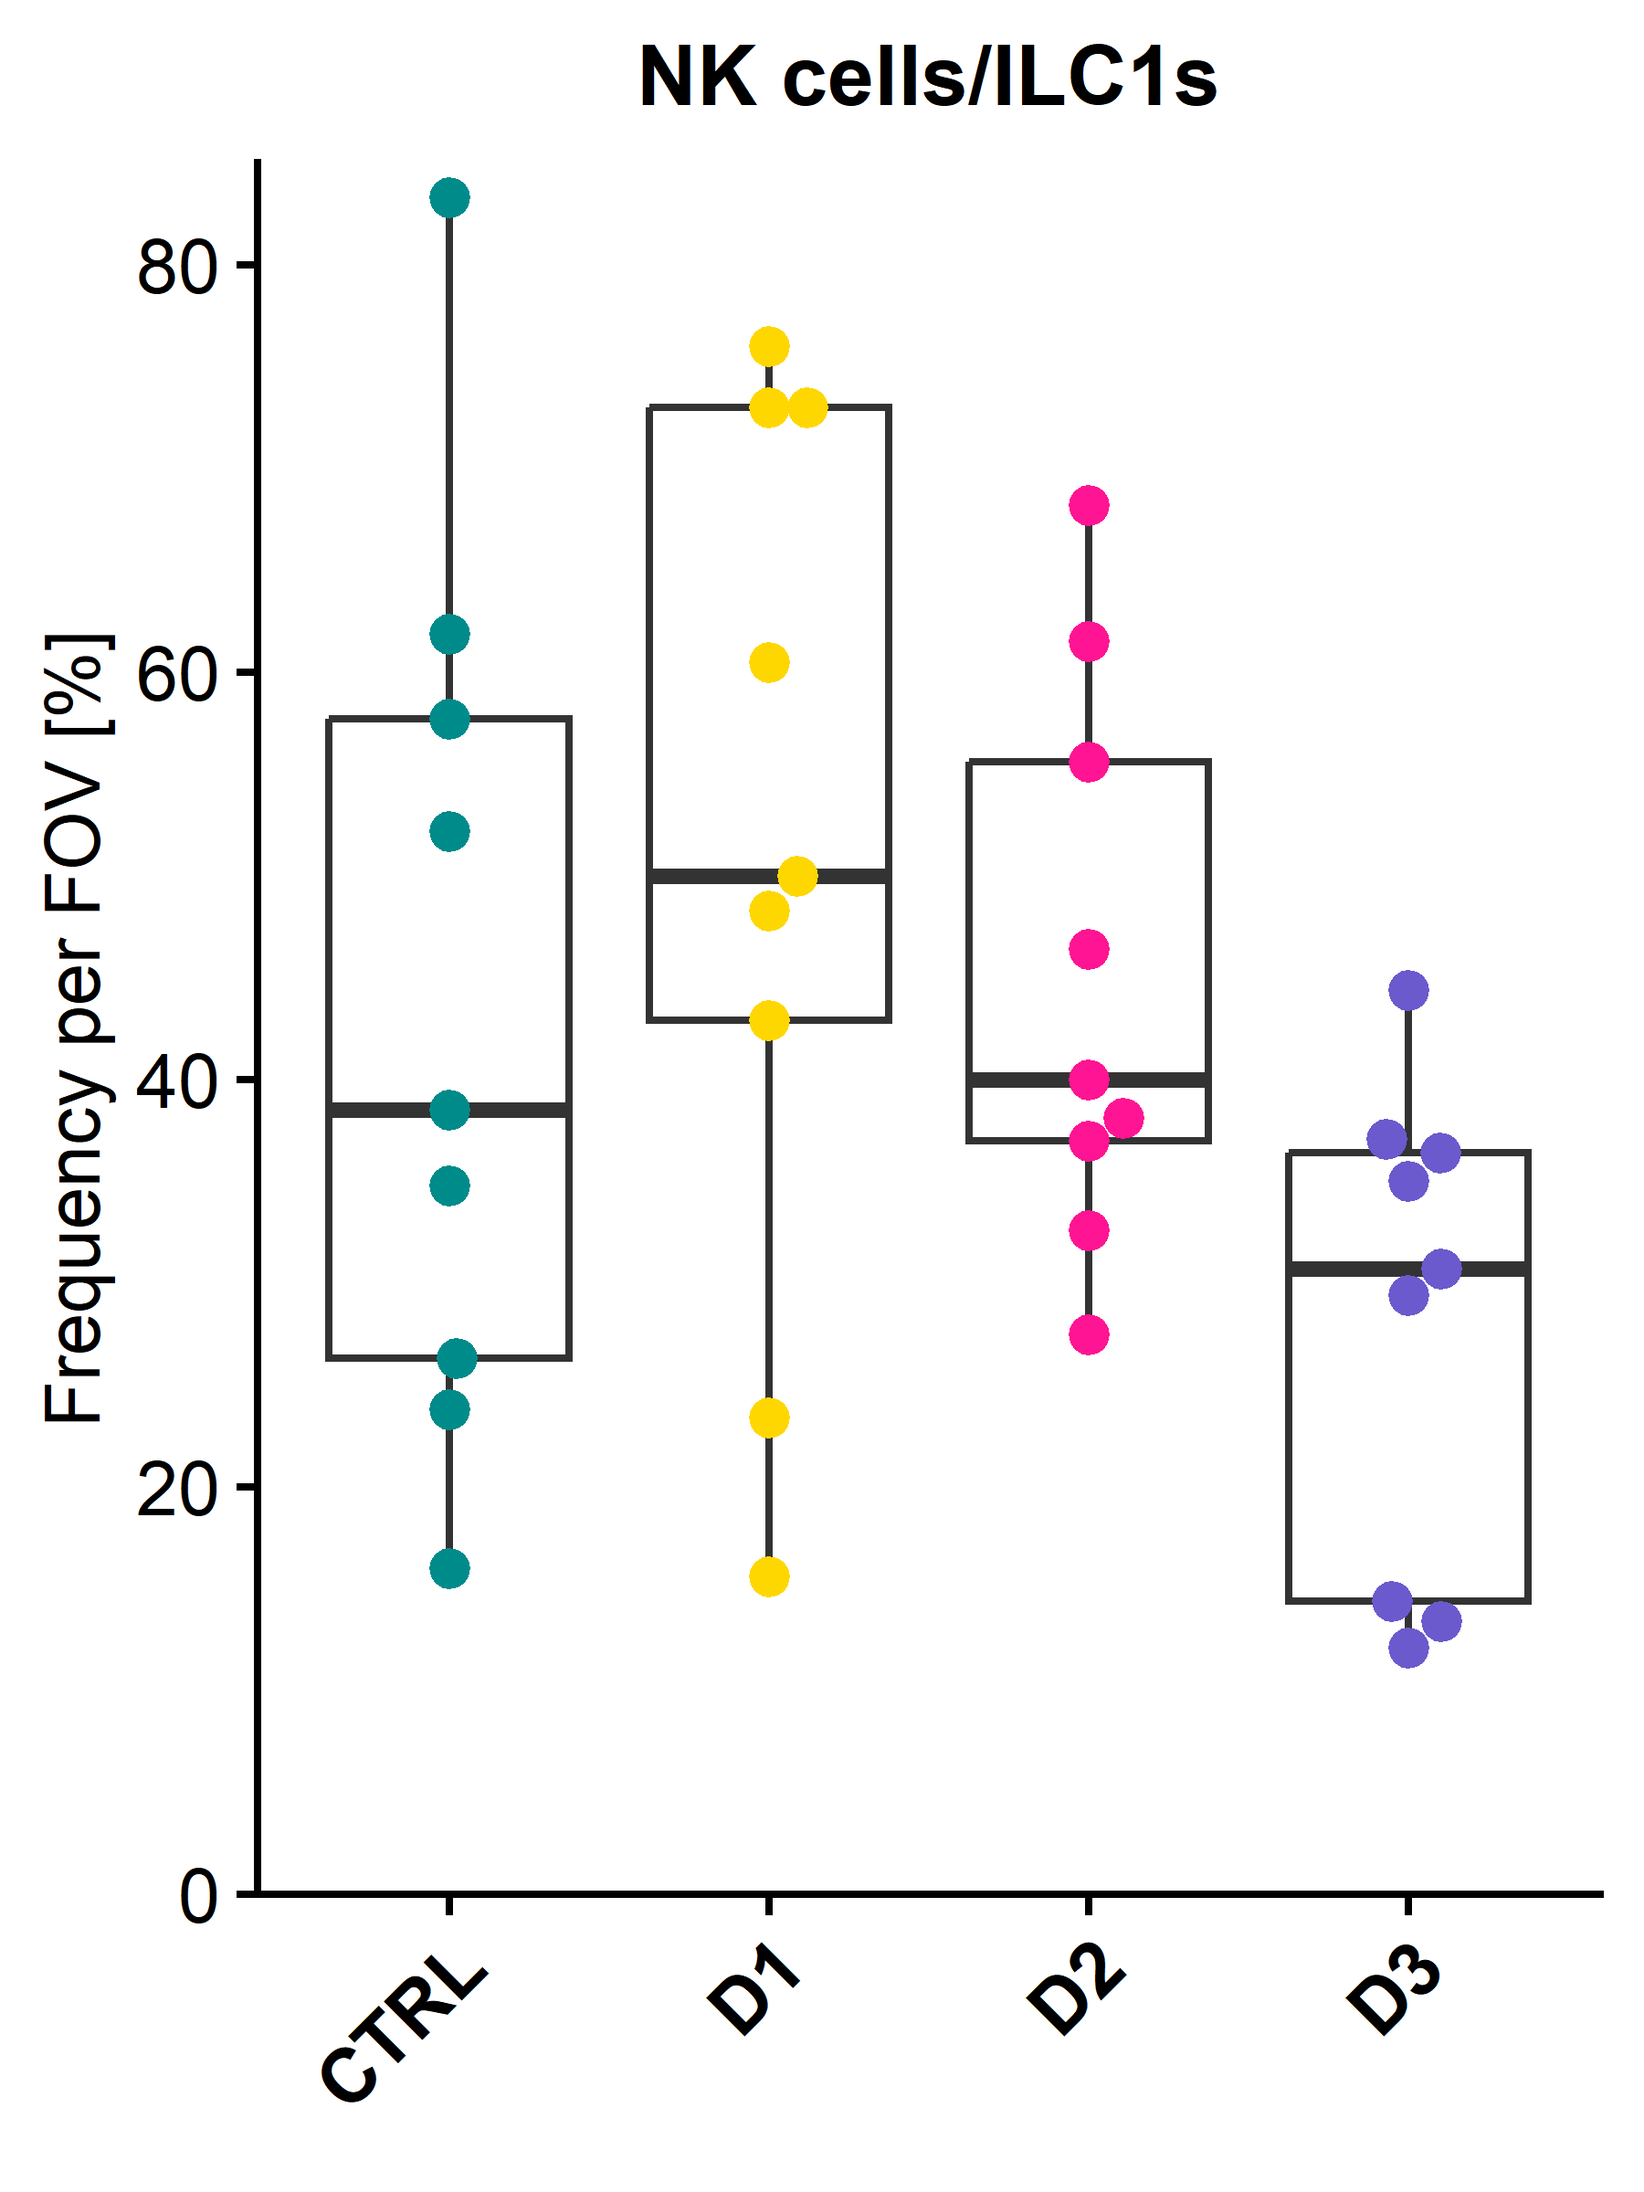
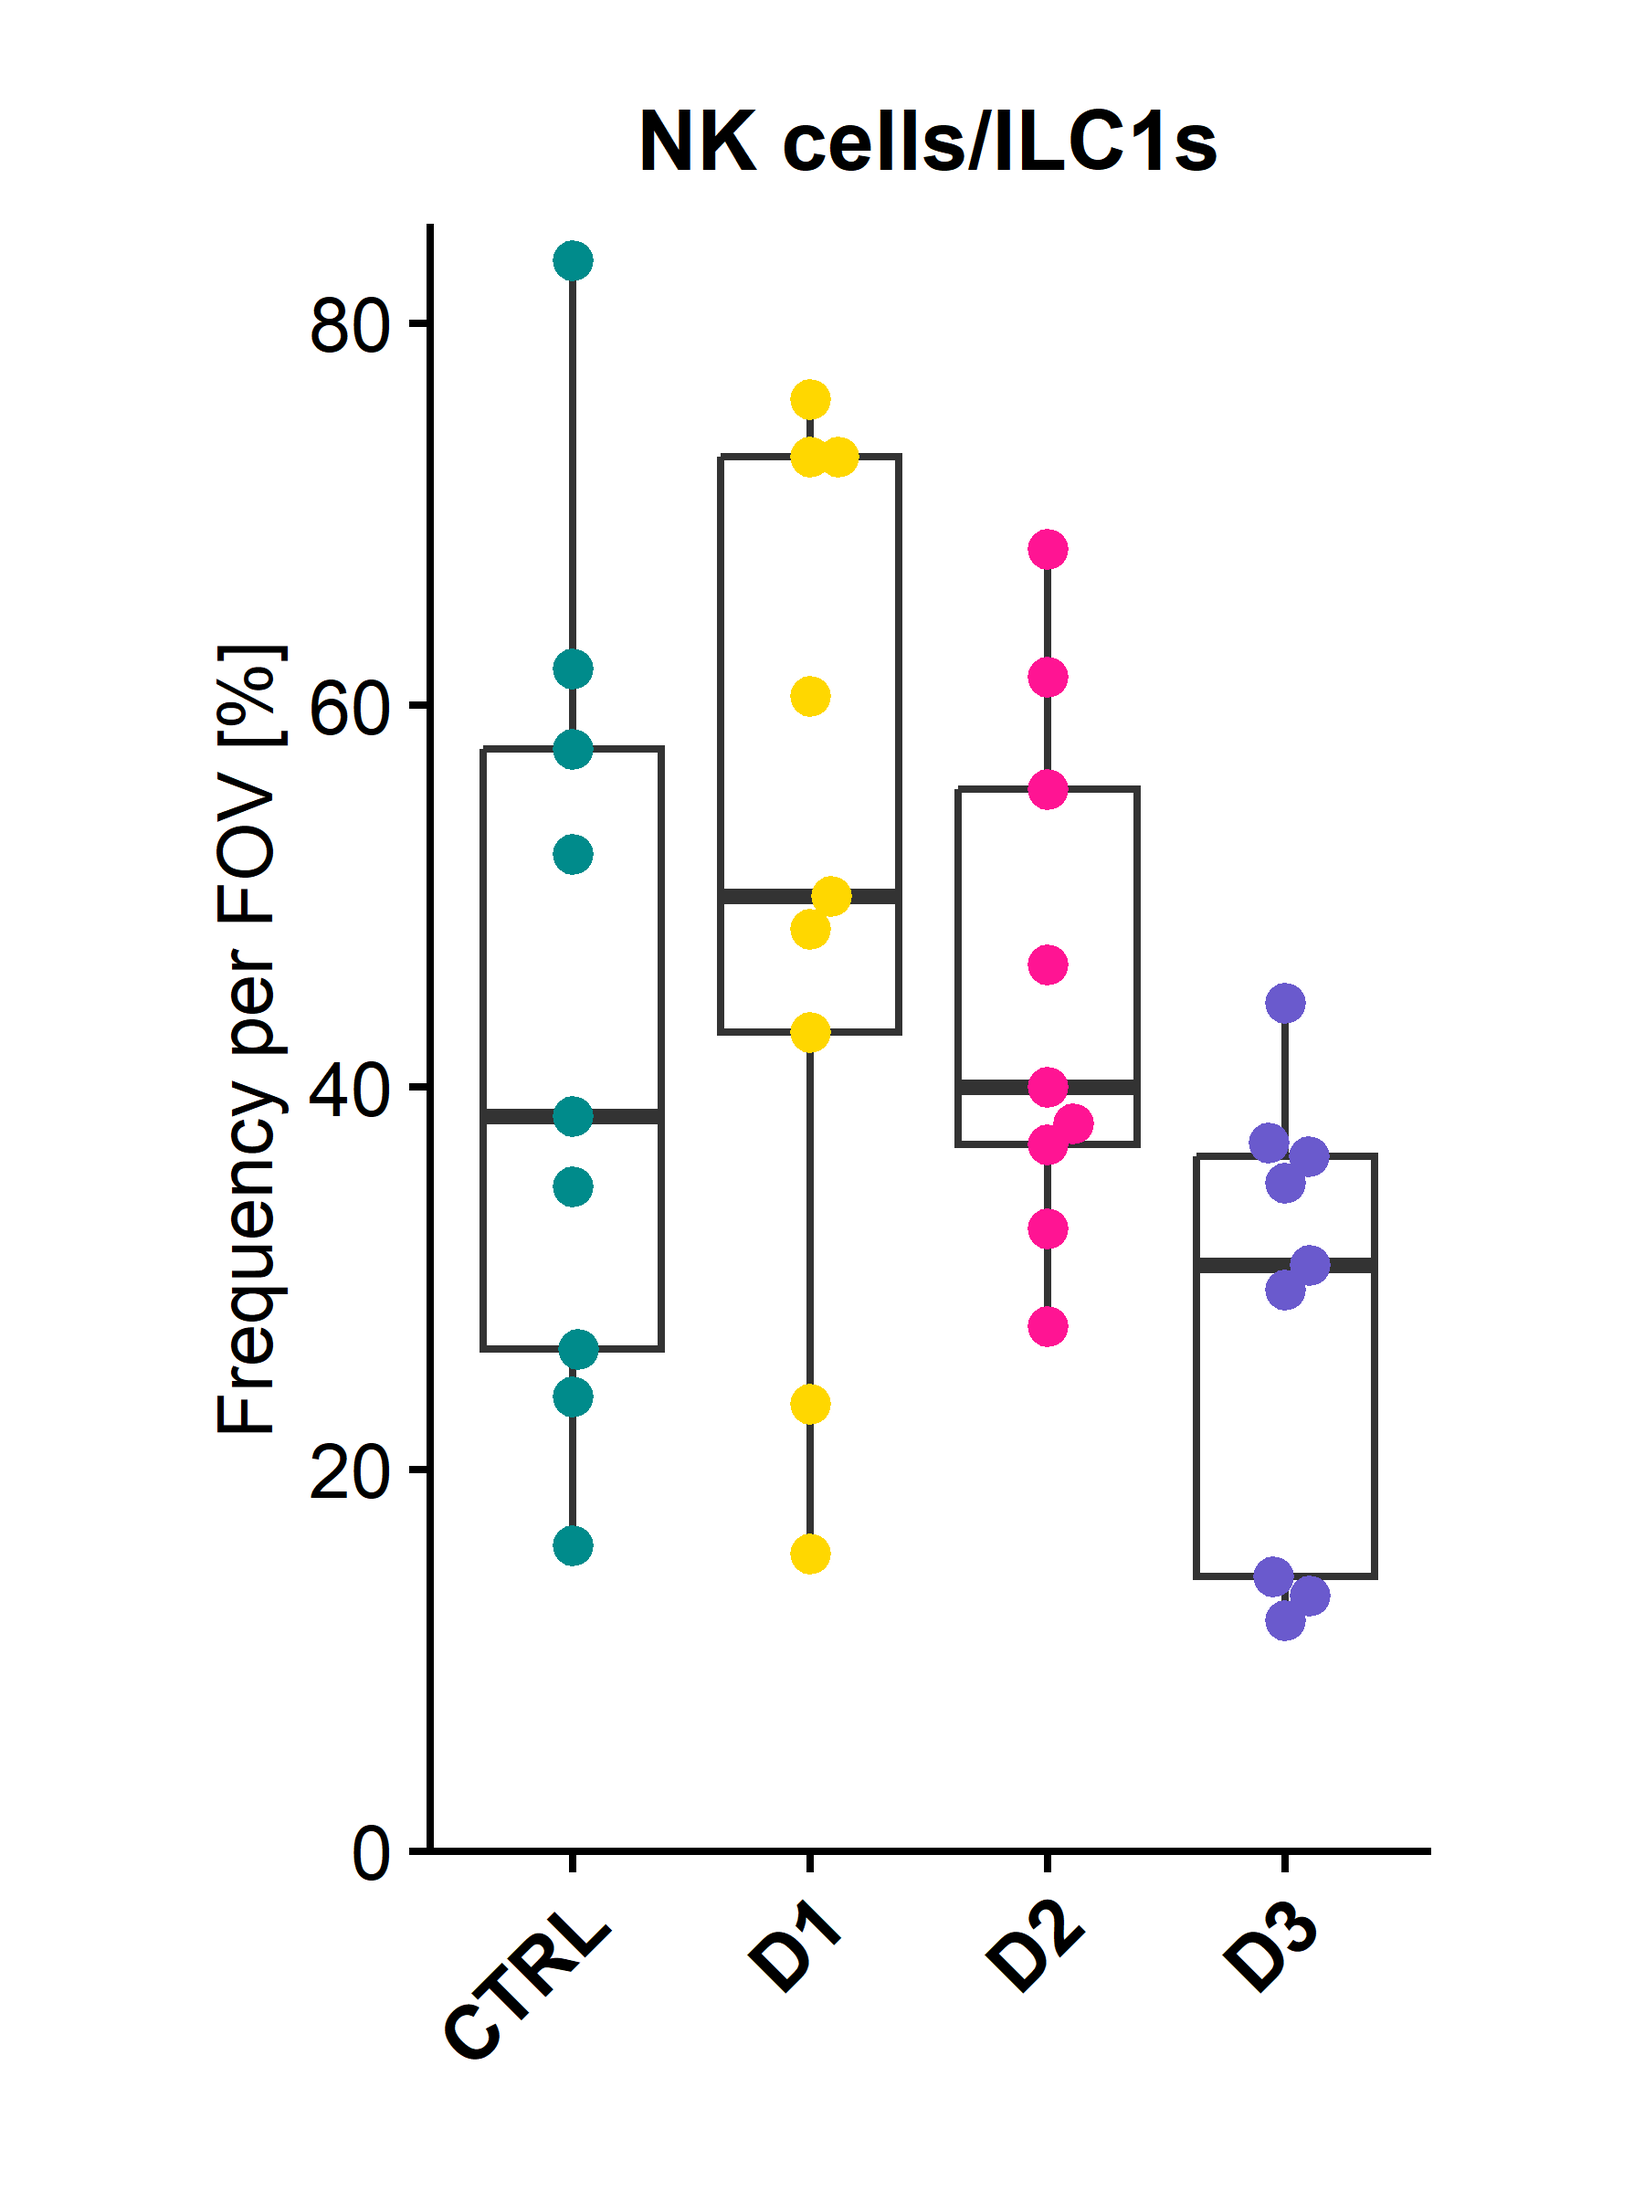
Total count of ILC3s and NK cells/ILC1s in suppl. figure. Some aestetics changed

Changed region(s): [[0.0311, 0.0625, 0.9644, 0.9688], [0.3733, 0.0, 0.7467, 0.0938]]

diff --git a/2_visualizations_for_figures/Fig_5_quantification_lung.md b/2_visualizations_for_figures/Fig_5_quantification_lung.md
@@ -1,7 +1,7 @@
 ---
 title: "Figure 5: Quantification lung"
 author: "Sandy Kroh"
-date: "April 22, 2026"
+date: "April 29, 2026"
 output:
   html_document:
     toc: yes
@@ -211,7 +211,7 @@ plot_prop <- ggplot(df, aes(x = ILCtype, y = value, fill = "ILCtype"))+
       axis.text.y = element_text(size = 10),
       axis.title.y = element_text(size = 10),
       plot.title = element_text(hjust = 0.5, size = 11, face = "bold"), 
-      plot.margin = margin(0.2, 0.2, 0.3, 0.2, "cm"),
+      plot.margin = margin(0.5, 1, 0.5, 1, "cm"),
       legend.position = "none"
     ) +
   stat_pvalue_manual(pwc,
@@ -353,7 +353,7 @@ plot_freq <- ggplot(df, aes(x = ILCtype, y = value, fill = "ILCtype"))+
       axis.text.y = element_text(size = 10),
       axis.title.y = element_text(size = 10),
       plot.title = element_text(hjust = 0.5, size = 11, face = "bold"), 
-      plot.margin = margin(0.2, 0.2, 0.3, 0.2, "cm"),
+      plot.margin = margin(0.5, 1, 0.5, 1, "cm"),
       legend.position = "none"
     ) +
   stat_pvalue_manual(pwc,
@@ -490,7 +490,7 @@ plot_freq_immune <- ggplot(df, aes(x = ILCtype, y = value, fill = "ILCtype"))+
       axis.text.y = element_text(size = 10),
       axis.title.y = element_text(size = 10),
       plot.title = element_text(hjust = 0.5, size = 11, face = "bold"), 
-      plot.margin = margin(0.2, 0.2, 0.3, 0.2, "cm"),
+      plot.margin = margin(0.5, 1, 0.5, 1, "cm"),
       legend.position = "none"
     ) +
   stat_pvalue_manual(pwc,
@@ -608,7 +608,7 @@ plot_count_all <- ggplot(df, aes(x = Treatment, y = TotalCellCountFOV, fill = "T
       axis.text.y = element_text(size = 10),
       axis.title.y = element_text(size = 10),
       plot.title = element_text(hjust = 0.5, size = 11, face = "bold"), 
-      plot.margin = margin(0.2, 0.2, 0.3, 0.2, "cm"),
+      plot.margin = margin(0.5, 1, 0.5, 1, "cm"),
       legend.position = "none"
     ) +
   stat_pvalue_manual(pwc,
@@ -734,7 +734,7 @@ plot_count_immune <- ggplot(df, aes(x = Treatment, y = `Immune cells`, fill = "T
       axis.text.y = element_text(size = 10),
       axis.title.y = element_text(size = 10),
       plot.title = element_text(hjust = 0.5, size = 11, face = "bold"), 
-      plot.margin = margin(0.2, 0.2, 0.3, 0.2, "cm"),
+      plot.margin = margin(0.5, 1, 0.5, 1, "cm"),
       legend.position = "none"
     ) +
   stat_pvalue_manual(pwc,
@@ -860,7 +860,7 @@ plot_count_ilc <- ggplot(df, aes(x = Treatment, y = ILCs, fill = "Treatment"))+
       axis.text.y = element_text(size = 10),
       axis.title.y = element_text(size = 10),
       plot.title = element_text(hjust = 0.5, size = 11, face = "bold"), 
-      plot.margin = margin(0.2, 0.2, 0.3, 0.2, "cm"),
+      plot.margin = margin(0.5, 1, 0.5, 1, "cm"),
       legend.position = "none"
     ) +
   stat_pvalue_manual(pwc,
@@ -986,7 +986,7 @@ plot_count_ilc1 <- ggplot(df, aes(x = Treatment, y = `NK cells/ILC1s`, fill = "T
       axis.text.y = element_text(size = 10),
       axis.title.y = element_text(size = 10),
       plot.title = element_text(hjust = 0.5, size = 11, face = "bold"), 
-      plot.margin = margin(0.2, 0.2, 0.3, 0.2, "cm"),
+      plot.margin = margin(0.5, 1, 0.5, 1, "cm"),
       legend.position = "none"
     ) +
   stat_pvalue_manual(pwc,
@@ -1112,7 +1112,7 @@ plot_count_ilc2 <- ggplot(df, aes(x = Treatment, y = `ILC2s`, fill = "Treatment"
       axis.text.y = element_text(size = 10),
       axis.title.y = element_text(size = 10),
       plot.title = element_text(hjust = 0.5, size = 11, face = "bold"), 
-      plot.margin = margin(0.2, 0.2, 0.3, 0.2, "cm"),
+      plot.margin = margin(0.5, 1, 0.5, 1, "cm"),
       legend.position = "none"
     ) +
   stat_pvalue_manual(pwc,
@@ -1238,7 +1238,7 @@ plot_count_ilc3 <- ggplot(df, aes(x = Treatment, y = `ILC3s`, fill = "Treatment"
       axis.text.y = element_text(size = 10),
       axis.title.y = element_text(size = 10),
       plot.title = element_text(hjust = 0.5, size = 11, face = "bold"), 
-      plot.margin = margin(0.2, 0.2, 0.3, 0.2, "cm"),
+      plot.margin = margin(0.5, 1, 0.5, 1, "cm"),
       legend.position = "none"
     ) +
   stat_pvalue_manual(pwc,
@@ -1366,7 +1366,7 @@ plot_freq_ilc1 <- ggplot(df, aes(x = Treatment, y = `NK cells/ILC1s`, fill = "Tr
       axis.text.y = element_text(size = 10),
       axis.title.y = element_text(size = 10),
       plot.title = element_text(hjust = 0.5, size = 11, face = "bold"), 
-      plot.margin = margin(0.2, 0.2, 0.3, 0.2, "cm"),
+      plot.margin = margin(0.5, 1, 0.5, 1, "cm"),
       legend.position = "none"
     ) +
   stat_pvalue_manual(pwc,
@@ -1493,7 +1493,7 @@ plot_freq_ilc2 <- ggplot(df, aes(x = Treatment, y = `ILC2s`, fill = "Treatment")
       axis.text.y = element_text(size = 10),
       axis.title.y = element_text(size = 10),
       plot.title = element_text(hjust = 0.5, size = 11, face = "bold"), 
-      plot.margin = margin(0.2, 0.2, 0.3, 0.2, "cm"),
+      plot.margin = margin(0.5, 1, 0.5, 1, "cm"),
       legend.position = "none"
     ) +
   stat_pvalue_manual(pwc,
@@ -1620,7 +1620,7 @@ plot_freq_ilc3 <- ggplot(df, aes(x = Treatment, y = `ILC3s`, fill = "Treatment")
       axis.text.y = element_text(size = 10),
       axis.title.y = element_text(size = 10),
       plot.title = element_text(hjust = 0.5, size = 11, face = "bold"), 
-      plot.margin = margin(0.2, 0.2, 0.3, 0.2, "cm"),
+      plot.margin = margin(0.5, 1, 0.5, 1, "cm"),
       legend.position = "none"
     ) +
   stat_pvalue_manual(pwc,
@@ -1747,7 +1747,7 @@ plot_immune <- ggplot(df, aes(x = Treatment, y = `Immune cells`, fill = "Treatme
       axis.text.y = element_text(size = 10),
       axis.title.y = element_text(size = 10),
       plot.title = element_text(hjust = 0.5, size = 11, face = "bold"), 
-      plot.margin = margin(0.2, 0.2, 0.3, 0.2, "cm"),
+      plot.margin = margin(0.5, 1, 0.5, 1, "cm"),
       legend.position = "none"
     ) +
   stat_pvalue_manual(pwc,
@@ -1859,7 +1859,7 @@ plot_stroma <- ggplot(df, aes(x = Treatment, y = `cells_of_interest`, fill = "Tr
       axis.text.y = element_text(size = 10),
       axis.title.y = element_text(size = 10),
       plot.title = element_text(hjust = 0.5, size = 11, face = "bold"), 
-      plot.margin = margin(0.2, 0.2, 0.3, 0.2, "cm"),
+      plot.margin = margin(0.5, 1, 0.5, 1, "cm"),
       legend.position = "none"
     ) +
   stat_pvalue_manual(pwc,
@@ -1971,7 +1971,7 @@ plot_epithelia <- ggplot(df, aes(x = Treatment, y = `cells_of_interest`, fill = 
       axis.text.y = element_text(size = 10),
       axis.title.y = element_text(size = 10),
       plot.title = element_text(hjust = 0.5, size = 11, face = "bold"), 
-      plot.margin = margin(0.2, 0.2, 0.3, 0.2, "cm"),
+      plot.margin = margin(0.5, 1, 0.5, 1, "cm"),
       legend.position = "none"
     ) +
   stat_pvalue_manual(pwc,
@@ -1996,21 +1996,65 @@ ggarrange(plot_immune, plot_stroma, plot_epithelia,
 
 
 ``` r
-ggarrange(plot_prop, plot_freq_immune, plot_freq, 
-          "NONE", "NONE", "NONE",
-          plot_count_all, plot_count_immune, plot_count_ilc, 
-          "NONE", "NONE", "NONE",
-          plot_count_ilc1, plot_count_ilc2, plot_count_ilc3, 
-          ncol = 3, nrow = 5, heights = c(4,0.5,  3, 0.5, 3), 
-          labels = c("A", "B", "C",
-                     "", "", "", 
-                     "D", "E", "F",
-                     "", "", "", 
-                     "G", "H", "I"))+
+top_figure <- ggarrange(plot_prop, plot_freq_immune, plot_freq, 
+          ncol = 3, nrow = 1, 
+          labels = c("AUTO"), 
+          label.x = 0.1)+
+  theme(plot.margin = margin(0, 0, 0.2, 0, "cm"))
+
+
+middle_figure <- ggarrange(
+          plot_count_all, plot_count_immune, plot_count_ilc,
+          plot_count_ilc2, 
+          ncol = 2, nrow = 2, 
+          labels = c("D", "E", "F",
+                     "G"),
+          label.x = 0.1)+
+  theme(plot.margin = margin(0, 0, 0, 0, "cm"))
+
+
+
+final_figure <- ggarrange(top_figure, middle_figure, 
+          ncol = 1, nrow = 2, heights = c(3, 4.5))+
   theme(plot.margin = margin(0, 0.1, 0, 0, "cm"))
+
+final_figure
 ```
 
 <img src="Fig_5_quantification_lung_files/figure-html/unnamed-chunk-17-1.png" alt="" width="100%" style="display: block; margin: auto;" />
+
+``` r
+annotate_figure(final_figure,
+               bottom = text_grob("N: CTRL/D1/D2 = 9 FOVs, D3 = 8 FOVs; Kruskal-Wallis-test & Dunn’s test; Significance levels of adjusted p-values: **** = 1e-04, *** = 0.001, ** = 0.01, * = 0.05", 
+                                  color = "black", 
+                                  # hjust = -1,
+                                  face = "italic", size = 8))
+```
+
+<img src="Fig_5_quantification_lung_files/figure-html/unnamed-chunk-17-2.png" alt="" width="100%" style="display: block; margin: auto;" />
+
+
+``` r
+suppl_figure <- ggarrange(plot_count_ilc1, plot_count_ilc3, 
+          ncol = 2, nrow = 1, 
+          labels = c("AUTO"),
+          label.x = 0.1)+
+  theme(plot.margin = margin(0, 0, 0, 0, "cm"))
+
+suppl_figure
+```
+
+<img src="Fig_5_quantification_lung_files/figure-html/unnamed-chunk-18-1.png" alt="" width="100%" style="display: block; margin: auto;" />
+
+``` r
+annotate_figure(suppl_figure,
+               bottom = text_grob("N: CTRL/D1/D2 = 9 FOVs, D3 = 8 FOVs; Kruskal-Wallis-test & Dunn’s test; Significance levels of adjusted p-values: **** = 1e-04, *** = 0.001, ** = 0.01, * = 0.05",
+                                  color = "black",
+                                  # hjust = -1,
+                                  face = "italic", size = 8))
+```
+
+<img src="Fig_5_quantification_lung_files/figure-html/unnamed-chunk-18-2.png" alt="" width="100%" style="display: block; margin: auto;" />
 
 
 ``` r
@@ -2020,7 +2064,7 @@ ggarrange(plot_freq_ilc1, plot_freq_ilc2, plot_freq_ilc3,
   theme(plot.margin = margin(0, 0.1, 0, 0, "cm"))
 ```
 
-<img src="Fig_5_quantification_lung_files/figure-html/unnamed-chunk-18-1.png" alt="" width="100%" style="display: block; margin: auto;" />
+<img src="Fig_5_quantification_lung_files/figure-html/unnamed-chunk-19-1.png" alt="" width="100%" style="display: block; margin: auto;" />
 
 ## Session Information
 
